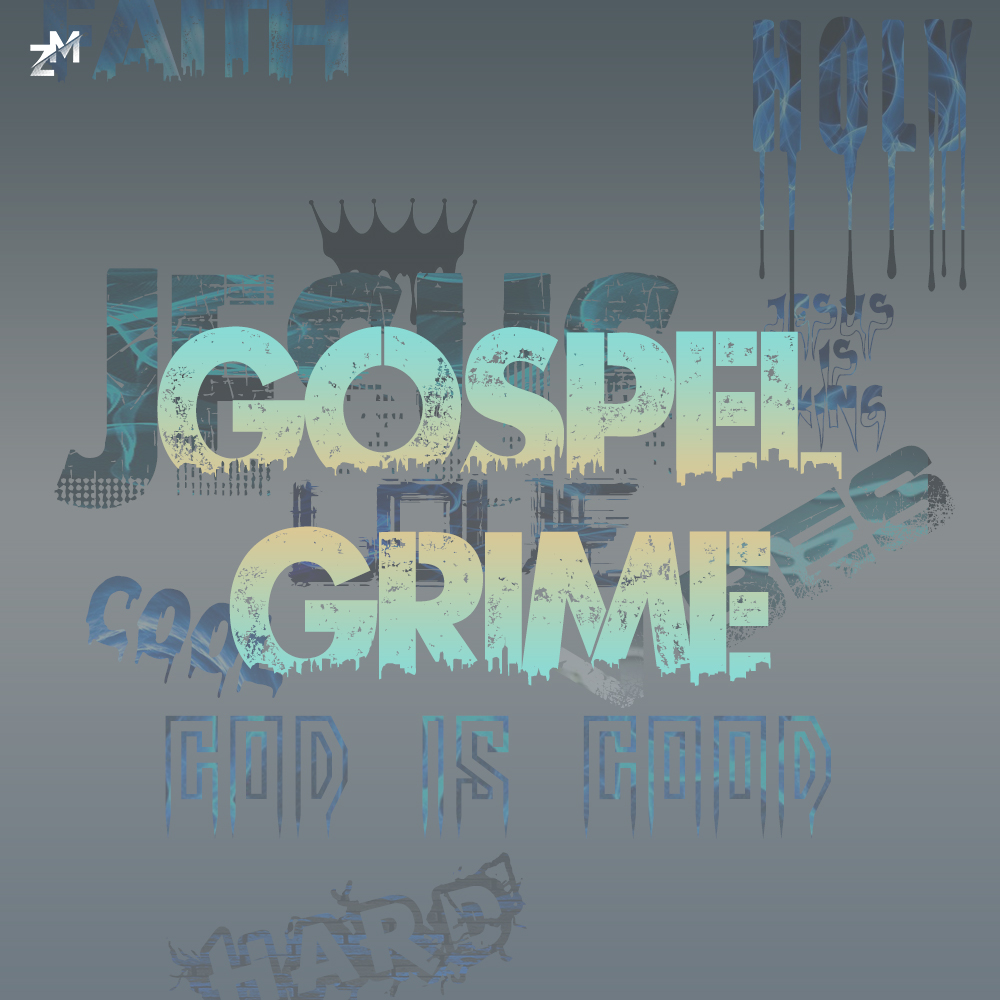
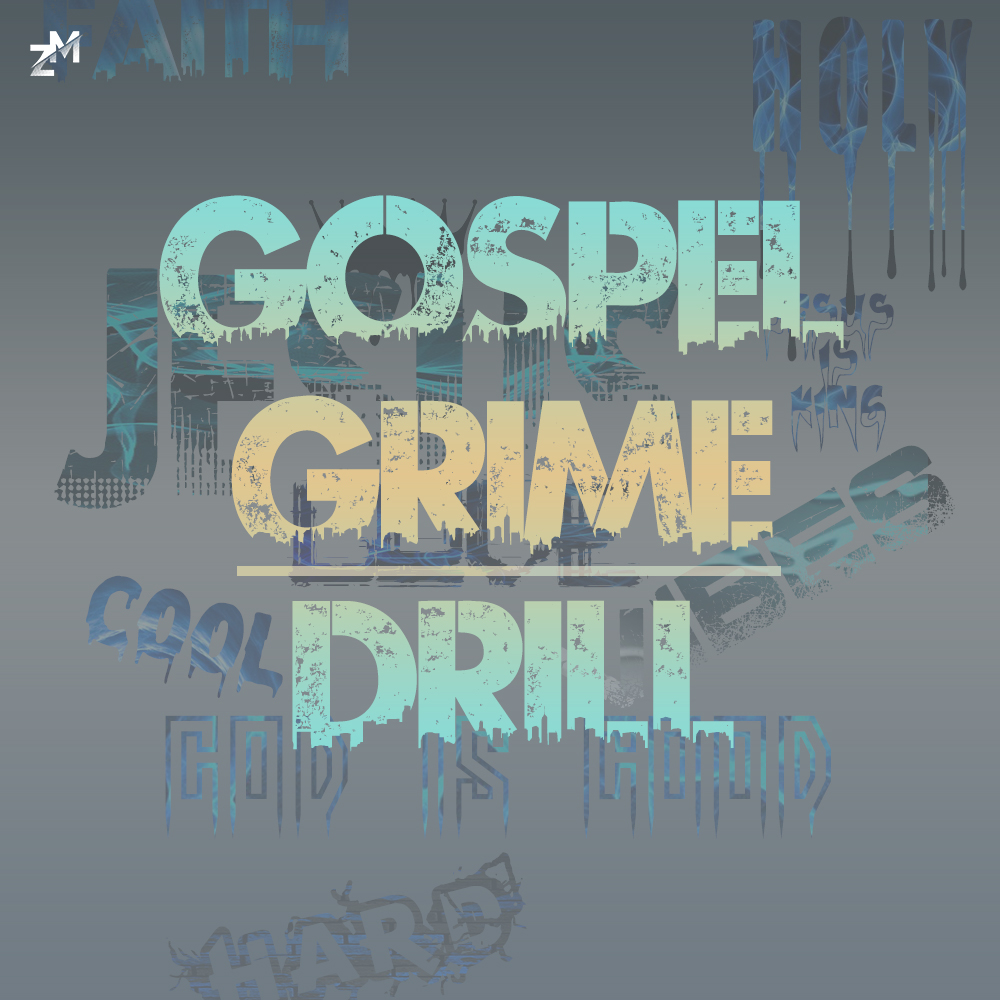
Links Added

Changed region(s): [[0.155, 0.186, 0.868, 0.744]]

diff --git a/apple music/apple music.html b/apple music/apple music.html
@@ -5,7 +5,7 @@
     <meta charset="UTF-8">
     <meta name="viewport" content="width=device-width, initial-scale=1.0">
     <title>Spotify</title>
-    <link rel="stylesheet" href="/spotify/spotify.css">
+    <link rel="stylesheet" href="/apple music/apple music.css">
 
 </head>
 
@@ -22,8 +22,8 @@
         <section>
             <a href="/index.html"><img src="/img/Zedek Playlist Logo.png" alt="Zedek's Playlist"></a>
             <div class="">
-                <a href="/spotify/spotify.html" style="border-bottom: 2px solid black;">Spotify</a>
-                <a href="/apple music/apple music.html">Apple Music</a>
+                <a href="/spotify/spotify.html">Spotify</a>
+                <a href="/apple music/apple music.html" style="border-bottom: 2px solid black;">Apple Music</a>
                 <a href="/new music friday/ngf.html">New Gospel Friday</a>
             </div>
             <button class="remove-hamburger"> &#x2715;</button>
@@ -39,20 +39,18 @@
             </section>
             <section class="playlist-text">
                 <h3>Get your groove on with afrobeat-infused CHRISTIAN music! Dive into our playlist now!</h3>
-                <a
-                    href="https://open.spotify.com/playlist/0TdDoLCBm1RxztpzAWgL3l?si=CgTf_UVFTg2XP9HnqLtgWQ&pi=e-67PfIyTeSNuC">
+                <a href="https://music.apple.com/ng/playlist/gospel-afrobeat/pl.u-11zBJ7ohNJv0B2g?ls">
                     <button>GO TO PLAYLIST </button>
                 </a>
             </section>
         </div>
-        <div class="playlist" id="row-reverse">
+        <div class="playlist">
             <section class="playlist-cover">
                 <img src="/img/Gospel Hip Hop.jpg" alt="Gospel Hip-Hop Playlist Cover">
             </section>
             <section class="playlist-text">
                 <h3>UNLEASH THE POWER OF GOSPEL IN HIP-HOP BEATS! EXPLORE OUR DYNAMIC PLAYLIST TODAY.</h3>
-                <a
-                    href="https://open.spotify.com/playlist/6iyhVDIIhLvQ6idV6zT58N?si=0yWGfX12TQO3d_RaTylOaA&pi=e-pN4CwK8LQ4Gr">
+                <a href="https://music.apple.com/ng/playlist/gospel-hip-hop/pl.u-JPAZbl3FLp3xjEk?ls">
                     <button>GO TO PLAYLIST </button>
                 </a>
             </section>
@@ -62,9 +60,8 @@
                 <img src="/img/GRIME.jpg" alt="Gospel Grime Playlist Cover">
             </section>
             <section class="playlist-text">
-                <h3>RAISE THE ROOF WITH GODLY GRIME! THE HARDEST BEATS FOR THE STRONGEST BELIEVERS.</h3>
-                <a
-                    href="https://open.spotify.com/playlist/2IaR3INsDC8GKAsHFkOWSU?si=eMaXS5iAQz6ylNUEhZSsQw&pi=e-jZglIk0_RLmk">
+                <h3>RAISE THE ROOF WITH GODLY GRIME AND DRILL! THE HARDEST BEATS FOR THE STRONGEST BELIEVERS.</h3>
+                <a href="https://music.apple.com/ng/playlist/gospel-grime-and-drill/pl.u-d2b05b2uLRerAD5?ls">
                     <button>GO TO PLAYLIST </button>
                 </a>
             </section>
@@ -74,11 +71,8 @@
             <h5>More playlists are being created. Click the button below to sign up for reminders via the provided email
                 by sending remind
                 or <a href="https://www.instagram.com/worshippers_haven?igsh=MTF1cnBiZThncDF6ag==">follow</a>
-                "Worshippers Haven" on Instagram for updates.
-            </h5>
-            <a href="mailto:zedeksmedia24@gmail.com">
-                <button>SEND EMAIL</button>
-            </a>
+                "Worshippers Haven" on Instagram for updates.</h5>
+            <a href="mailto:zedeksmedia24@gmail.com"><button>SEND EMAIL</button></a>
         </div>
     </main>
     <!-- FOOTER -->

diff --git a/index.html b/index.html
@@ -22,7 +22,7 @@
             <a href="/index.html"><img src="/img/Zedek Playlist Logo.png" alt="Zedek's Playlist"></a>
             <div class="">
                 <a href="/spotify/spotify.html">Spotify</a>
-                <a href="">Apple Music</a>
+                <a href="/apple music/apple music.html">Apple Music</a>
                 <a href="/new music friday/ngf.html">New Gospel Friday</a>
             </div>
             <button class="remove-hamburger"> &#x2715;</button>
@@ -42,14 +42,14 @@
         <!-- LANDING PAGE BUTTON -->
         <div class="landing-page-buttons">
             <a href="/spotify/spotify.html"><button id="landing-page-button">SPOTIFY</button></a>
-            <a href=""><button id="landing-page-button-2">APPLE MUSIC</button></a>
+            <a href="/apple music/apple music.html"><button id="landing-page-button-2">APPLE MUSIC</button></a>
         </div>
         <!-- IG AD -->
         <div class="ig-ad">
             <h3>IGNITE YOUR FAITH! <br>
-                FOLLOW LIFE OF WORSHIP ON INSTAGRAM FOR INSPIRING CHRISTIAN CONTENT DAILY. <br>
-                #LifeOfWorship</h3>
-            <a href="">
+                FOLLOW WORSHIPPERS' HAVEN ON INSTAGRAM FOR INSPIRING CHRISTIAN CONTENT DAILY. <br>
+                #worshippershaven</h3>
+            <a href="https://www.instagram.com/worshippers_haven?igsh=MTF1cnBiZThncDF6ag==">
                 <button>GO TO ACCOUNT</button>
             </a>
         </div>
@@ -67,7 +67,7 @@
             <a href="tel:08089033810">
                 <img src="/img/icons8-phone-100.png" alt="Phone Icon">
             </a>
-            <a href="">
+            <a href="https://api.whatsapp.com/send?phone=2348089033810&text=Welcome%20to%20Zedek%27s%20Media">
                 <img src="/img/icons8-whatsapp-100.png" alt="Phone Icon">
             </a>
         </section>

diff --git a/new music friday/ngf.html b/new music friday/ngf.html
@@ -22,7 +22,7 @@
             <a href="/index.html"><img src="/img/Zedek Playlist Logo.png" alt="Zedek's Playlist"></a>
             <div class="">
                 <a href="/spotify/spotify.html">Spotify</a>
-                <a href="">Apple Music</a>
+                <a href="/apple music/apple music.html">Apple Music</a>
                 <a href="/new music friday/ngf.html" style="border-bottom: 2px solid black;">New Gospel Friday</a>
             </div>
             <button class="remove-hamburger"> &#x2715;</button>
@@ -54,14 +54,17 @@
     <footer>
         <h3>WEBSITE AND GRAPHICS BY ZEDEK'S MEDIA</h3>
         <section>
-            <a href="">
+            <a href="https://www.instagram.com/zedeks.media?igsh=aHZlcXVsMnY1bzV4">
                 <img src="/img/icons8-instagram-100.png" alt="Instagram Icon">
             </a>
-            <a href="">
+            <a href="mailto:zedeksmedia24@gmail.com">
                 <img src="/img/icons8-email-100 (1).png" alt="Email Icon">
             </a>
-            <a href="">
+            <a href="tel:08089033810">
                 <img src="/img/icons8-phone-100.png" alt="Phone Icon">
+            </a>
+            <a href="https://api.whatsapp.com/send?phone=2348089033810&text=Welcome%20to%20Zedek%27s%20Media">
+                <img src="/img/icons8-whatsapp-100.png" alt="Phone Icon">
             </a>
         </section>
         <h6>ZEDEK'S MEDIA 2024 &#169;</h6>

diff --git a/new music friday/ngf.css b/new music friday/ngf.css
@@ -178,13 +178,17 @@ nav > section > button {
   /* font-size: 1em; */
 }
 .more-to-come > a > button {
-  background-color: black;
-  color: white;
-  border: none;
+  background-color: transparent;
+  color: black;
+  border: 2px solid black;
   font-weight: 900;
   font-size: 0.8em;
   padding: 0.3rem 1rem;
   font-family: "CocoSharp Trial", sans-serif;
+}
+.more-to-come > a > button:hover {
+  background-color: black;
+  color: white;
 }
 /* FOOTER */
 footer {
